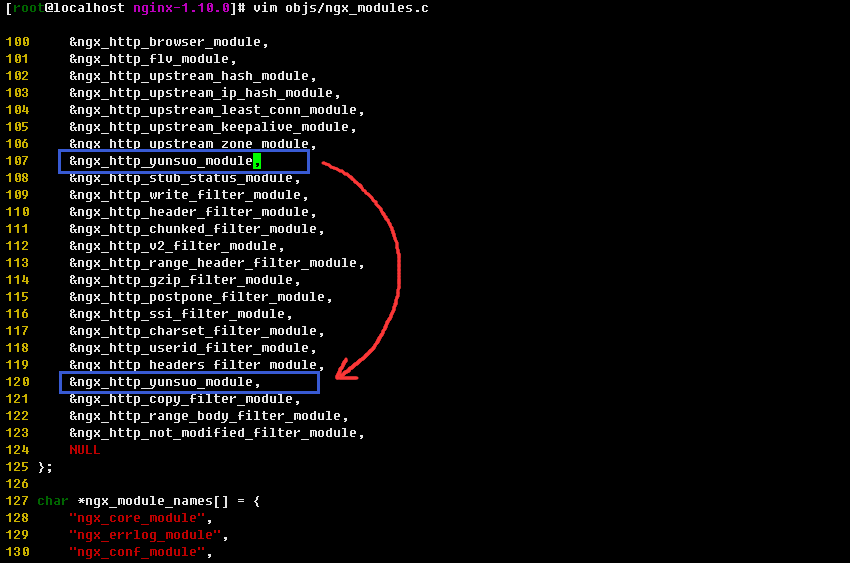
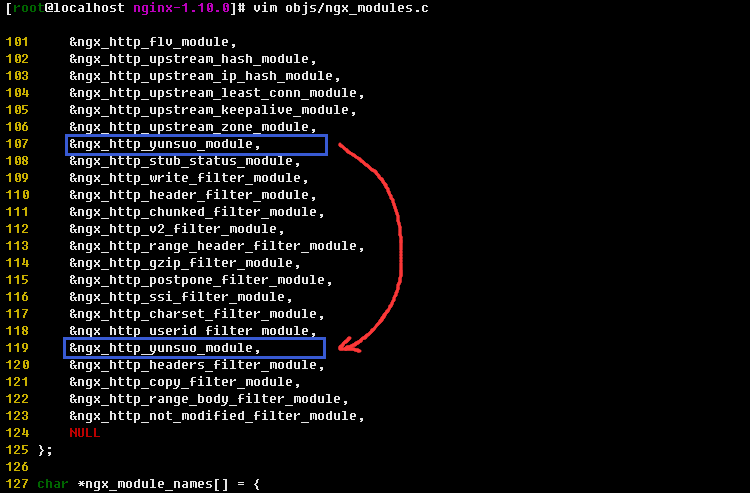
Updates assets/Nginx_15.png
Auto commit by GitBook Editor

diff --git a/guide/Nginx.md b/guide/Nginx.md
@@ -164,10 +164,11 @@
  ------------------------------------------     
        &ngx_http_stub_status_module,
        ......
-       &ngx_http_headers_filter_module,
+       &ngx_http_userid_filter_module,
  ---------------移动到该位置-----------------  
        &ngx_http_yunsuo_module,
  -------------------------------------------
+       &ngx_http_headers_filter_module,
        &ngx_http_copy_filter_module,
        &ngx_http_range_body_filter_module,
        &ngx_http_not_modified_filter_module,
@@ -205,7 +206,7 @@
     ![](/assets/Nginx_18.png)
     
 ## 卸载
-1. 使用nginx.bak文件替换掉自编译的nginx文件，替换后重启Nginx
+方法一：使用nginx.bak文件替换掉自编译的nginx文件，替换后重启Nginx
       
    ```
    # cd /usr/local/nginx/sbin/ 
@@ -214,7 +215,7 @@
    # service nginx restart
    ```
    
-2. 删除文件
+方法二：删除文件
  
    手动删除或者重命名`/usr/local/yunsuo_agent/nginx/`目录下的 `libnginx_plugin.so`（此操作需要关闭云锁自保护功能）， 重启nginx服务即可`"service nginx restart"`。 
    
